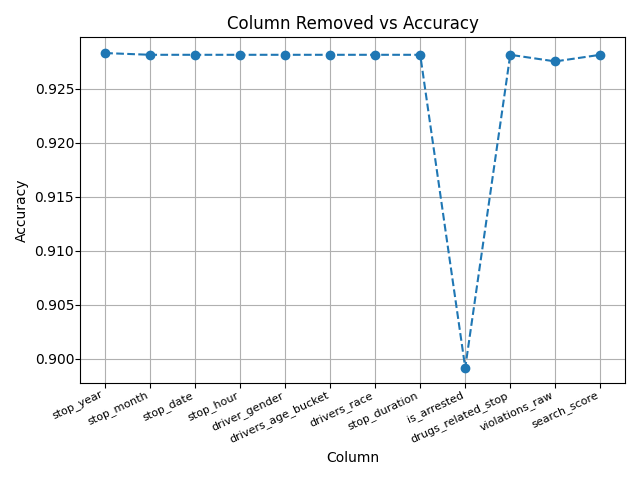
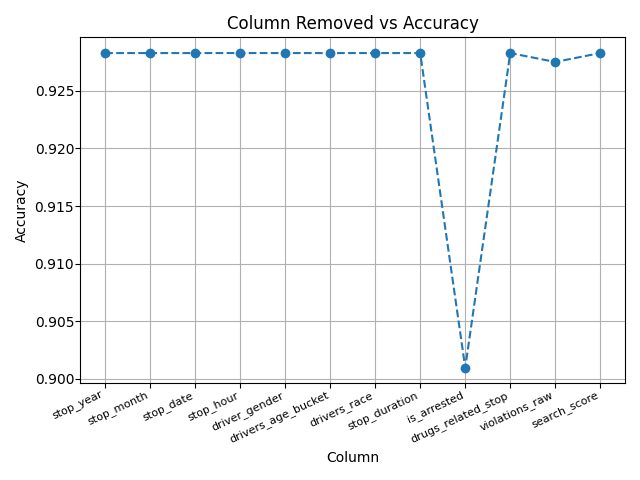
Changed the max depth based on the input of Grid Classifier

diff --git a/project.py b/project.py
@@ -625,7 +625,7 @@ def random_forest_visualizaton(random_forest):
 def decision_tree(X_train, X_test, y_train, y_test, df_clean):
     # Set the parameters you want to evaluate
 
-    params = {'max_leaf_nodes': list(range(2, 8)), 'min_samples_split': [2, 3]}
+    params = {'max_leaf_nodes': list(range(2, 30)), 'min_samples_split': [2, 3]}
 
     # Create the GridSearch object for the Random Forest classifier passing the parameters
     grid_search_cv = GridSearchCV(DecisionTreeClassifier(), params, verbose=1, cv=3)
@@ -661,7 +661,7 @@ def decision_tree(X_train, X_test, y_train, y_test, df_clean):
         x_t = df_clean.drop(columns=[c])
         x_t = pd.get_dummies(x_t)
         X_train, X_test, y_train, y_test = train_test_split(x_t, y, test_size=0.2, random_state=0)
-        grid_search = GridSearchCV(DecisionTreeClassifier(max_depth=5), params, cv=5)
+        grid_search = GridSearchCV(DecisionTreeClassifier(max_depth=16), params, cv=5)
         grid_search.fit(X_train, y_train)
         list_column_removed.append(c)
         print("Column Removed:"+str(c)+", Accuracy:"+str(grid_search.best_score_))
@@ -671,7 +671,7 @@ def decision_tree(X_train, X_test, y_train, y_test, df_clean):
 
     
     # The list of depth which are considered and accuracies are calculated
-    list_depths = list(range(1,20))
+    list_depths = list(range(1,17))
 
     list_accuracy = []
 

diff --git a/final_report.md b/final_report.md
@@ -32,6 +32,7 @@ One last approach in analyzing the model is how accurate it was predicting the `
 |           Warning |  0.967047| 
 
 ## Decision Tree
+We used the deisicion tree classification technique to understand how the classification works based ont the rules it generates. So the various columns affecting the output would be considered by the decision tree. The outcome is based on the contents of the leaf node, and the conditions along the path form a conjunction in the if clause. In general, t
 * Apply Decision Tree classifier algorithm on the dataset and compare how different approaches in implementing the algorithm impacts the accuracy
 * The first approach is to find out the best parameters using the grid search
 * In the second approach we try to remove individually one column at a time and try to find out 
